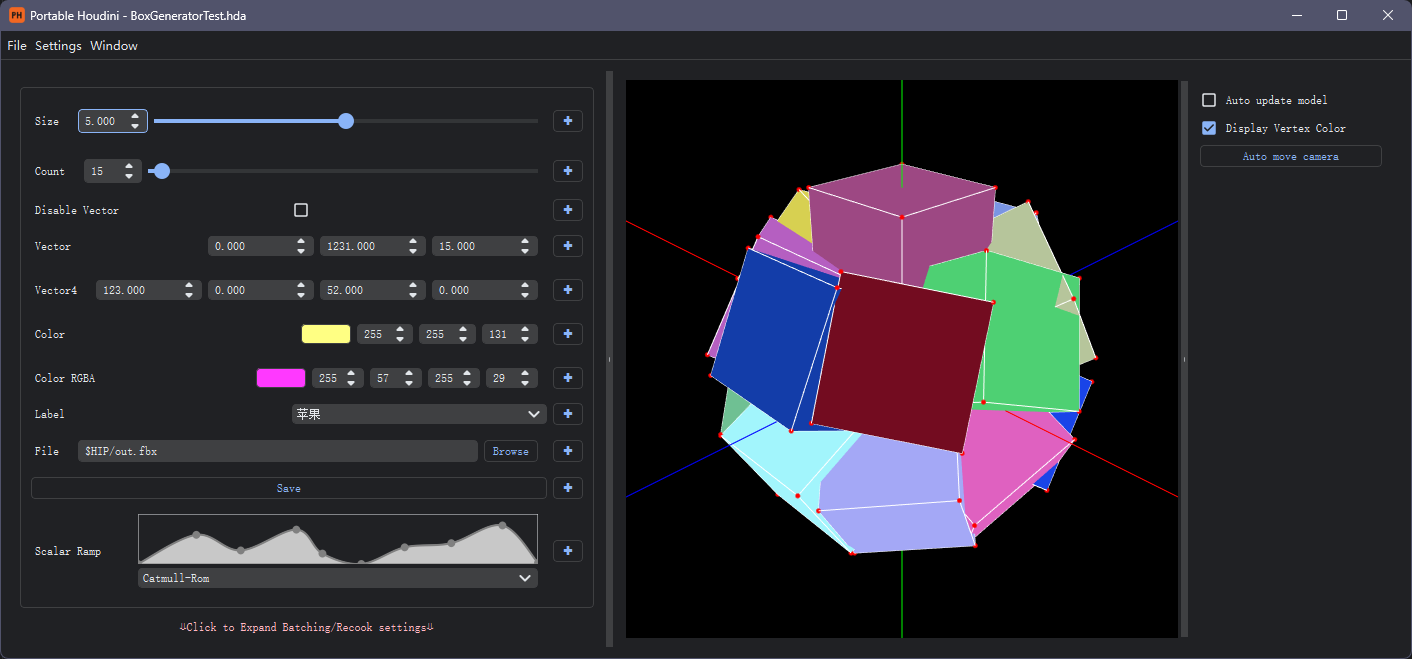
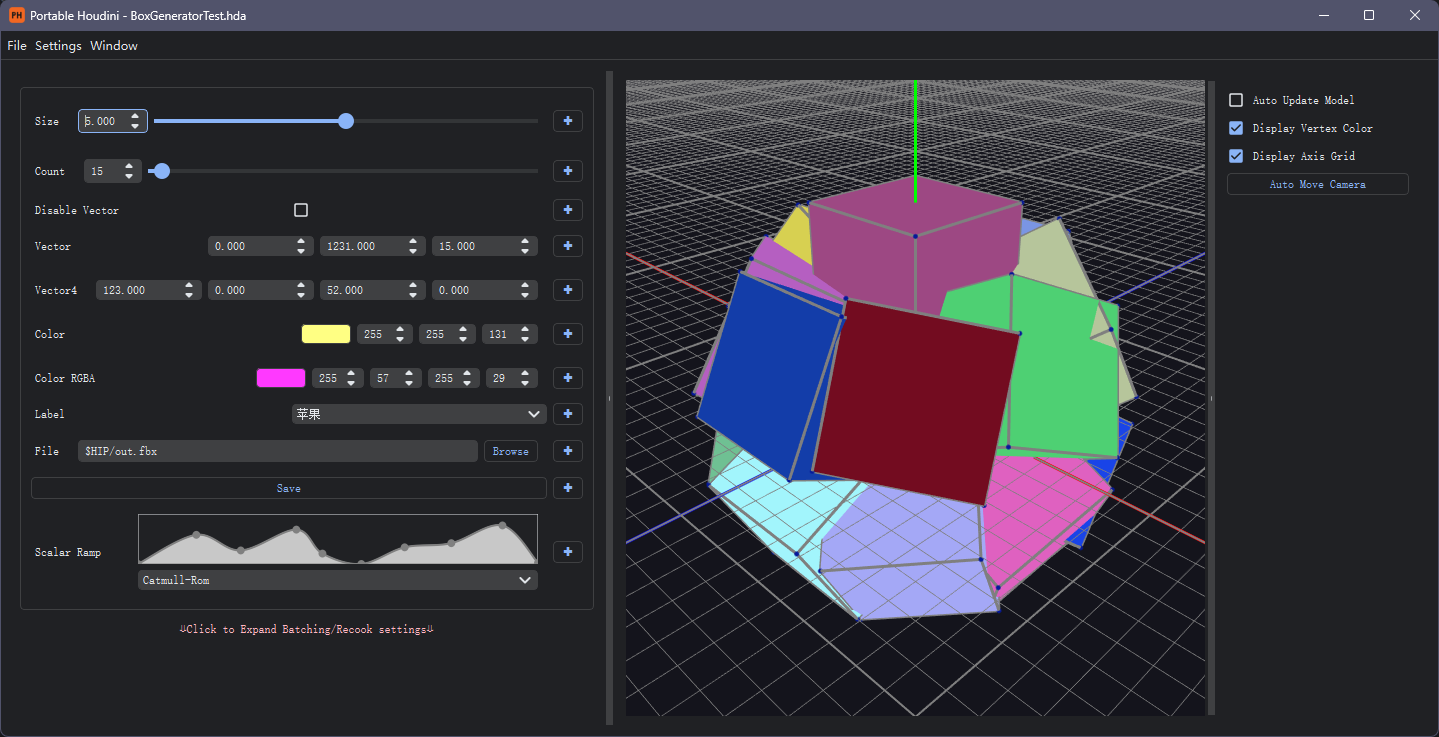
[Feat] Support displaying model coordinate grid

diff --git a/panel/qwidget/qt_mesh_viewer.py b/panel/qwidget/qt_mesh_viewer.py
@@ -31,6 +31,10 @@ class QMeshViewer(QOpenGLWidget):
         self.camera_distance = 10
         self.camera_x = 0
         self.camera_y = 0
+
+        self.show_grid = True
+        self.grid_spacing = 1
+
         self.last_mouse_position = None
         self.setMinimumWidth(300)
         self.setMinimumHeight(300)
@@ -87,21 +91,13 @@ class QMeshViewer(QOpenGLWidget):
             0, 1, 0
         )
 
+        glClearColor(0.08, 0.08, 0.11, 1.0)
+
         glRotatef(self.camera_angle_x, 1, 0, 0)
         glRotatef(self.camera_angle_y, 0, 1, 0)
 
-        # 绘制坐标平面
-        glBegin(GL_LINES)
-        glColor3f(1.0, 0.0, 0.0)  # X轴为红色
-        glVertex3f(-100.0, 0.0, 0.0)
-        glVertex3f(100.0, 0.0, 0.0)
-        glColor3f(0.0, 1.0, 0.0)  # Y轴为绿色
-        glVertex3f(0.0, -100.0, 0.0)
-        glVertex3f(0.0, 100.0, 0.0)
-        glColor3f(0.0, 0.0, 1.0)  # Z轴为蓝色
-        glVertex3f(0.0, 0.0, -100.0)
-        glVertex3f(0.0, 0.0, 100.0)
-        glEnd()
+        # Draw the grid and axes
+        self.drawGridAndAxes()
 
         # 绘制立方体面
         if self.show_vertex_colors:
@@ -120,7 +116,7 @@ class QMeshViewer(QOpenGLWidget):
             glEnd()
 
         # 绘制立方体边线
-        glColor3f(1.0, 1.0, 1.0)  # 白色
+        glColor3f(0.5, 0.5, 0.5)  # 白色
         glBegin(GL_LINES)
         for face in self.faces:
             for i in range(len(face)):
@@ -129,12 +125,61 @@ class QMeshViewer(QOpenGLWidget):
         glEnd()
 
         # 绘制顶点
-        glColor3f(1.0, 0.0, 0.0)  # 红色
+        glColor3f(0.02, 0.1, 0.6)  # 暗蓝色
         glPointSize(5.0)
         glBegin(GL_POINTS)
         for vertex in self.vertices:
             glVertex3f(vertex[0], vertex[1], vertex[2])
         glEnd()
+
+    def drawGridAndAxes(self):
+        if self.show_grid:
+            # Adjust grid spacing based on camera distance
+            grid_spacing = 1
+            while self.camera_distance > grid_spacing * 10:
+                grid_spacing *= 10
+            self.grid_spacing = grid_spacing
+
+            # Draw the main grid on the XZ plane with thick lines
+            glColor3f(0.5, 0.5, 0.5)
+            glLineWidth(2.0)  # Thick lines for the main grid
+            glBegin(GL_LINES)
+            for i in range(-100, 101, self.grid_spacing):
+                glVertex3f(i, 0, -100)
+                glVertex3f(i, 0, 100)
+                glVertex3f(-100, 0, i)
+                glVertex3f(100, 0, i)
+            glEnd()
+
+            # Draw the subdivided grid on the XZ plane with thin lines
+            fine_spacing = self.grid_spacing / 10.0
+            glLineWidth(0.75)  # Thin lines for the subdivided grid
+            glBegin(GL_LINES)
+            for i in range(int(-100 / fine_spacing), int(101 / fine_spacing)):
+                if i % 10 != 0:  # Skip main grid lines
+                    glVertex3f(i * fine_spacing, 0, -100)
+                    glVertex3f(i * fine_spacing, 0, 100)
+                    glVertex3f(-100, 0, i * fine_spacing)
+                    glVertex3f(100, 0, i * fine_spacing)
+            glEnd()
+
+        # Draw the axes
+        glLineWidth(3.0)  # Restore line width for the axes
+        glBegin(GL_LINES)
+        glColor3f(1.0, 0.0, 0.0)  # X axis red
+        glVertex3f(-100.0, 0.0, 0.0)
+        glVertex3f(100.0, 0.0, 0.0)
+        glColor3f(0.0, 1.0, 0.0)  # Y axis green
+        glVertex3f(0.0, 0, 0.0)
+        glVertex3f(0.0, 100.0, 0.0)
+        glColor3f(0.0, 0.0, 1.0)  # Z axis blue
+        glVertex3f(0.0, 0.0, -100.0)
+        glVertex3f(0.0, 0.0, 100.0)
+        glEnd()
+
+    def setDisplayAxisGrid(self, display_or_not):
+        self.show_grid = display_or_not
+        self.update()
 
     def loadHouNodeAsModel(self, hou_node):
         self.vertices = []
@@ -260,12 +305,16 @@ class QMeshViewerPanel(QWidget):
         self.checkbox_show_vertex_colors = QCheckBox(getLocalizationStr(LANG_STR_ENUM.UI_MESH_VIEWER_OPTIONS_PANEL_VERTEX_COLOR))
         self.checkbox_show_vertex_colors.setChecked(True)
         self.mesh_viewer.setDisplayPointColor(True)
+        self.checkbox_show_axis_grid = QCheckBox(getLocalizationStr(LANG_STR_ENUM.UI_MESH_VIEWER_OPTIONS_PANEL_DISPLAY_AXIS_GRID))
+        self.checkbox_show_axis_grid.setChecked(True)
+        self.mesh_viewer.setDisplayAxisGrid(True)
         self.button_auto_move_camera = QPushButton(getLocalizationStr(LANG_STR_ENUM.UI_MESH_VIEWER_OPTIONS_PANEL_ADJUST_CAMERA))
 
         # 布局
         parameter_panel = QVBoxLayout()
         parameter_panel.addWidget(self.checkbox_auto_update)
         parameter_panel.addWidget(self.checkbox_show_vertex_colors)
+        parameter_panel.addWidget(self.checkbox_show_axis_grid)
         parameter_panel.addWidget(self.button_auto_move_camera)
         parameter_panel.addStretch()
 
@@ -283,6 +332,7 @@ class QMeshViewerPanel(QWidget):
 
         # 连接信号
         self.checkbox_show_vertex_colors.toggled.connect(self.mesh_viewer.setDisplayPointColor)
+        self.checkbox_show_axis_grid.toggled.connect(self.mesh_viewer.setDisplayAxisGrid)
         self.button_auto_move_camera.clicked.connect(self.mesh_viewer.autoMoveCamera)
 
     def updateCounterLabels(self, counts):

diff --git a/panel/utils/localization.py b/panel/utils/localization.py
@@ -29,6 +29,7 @@ class LANG_STR_ENUM(SimpleEnum):
     UI_MESH_VIEWER_OPTIONS_PANEL_VERTEX_COLOR = None
     UI_MESH_VIEWER_OPTIONS_PANEL_ADJUST_CAMERA = None
     UI_MESH_VIEWER_OPTIONS_PANEL_AUTO_UPDATE_NODE = None
+    UI_MESH_VIEWER_OPTIONS_PANEL_DISPLAY_AXIS_GRID = None
     UI_MESH_VIEWER_INFO_VERTEX = None
     UI_MESH_VIEWER_INFO_POLYGON = None
     UI_TWIRL_EXPANSION_DESCRIPTION = None
@@ -73,9 +74,10 @@ LANG_MAP = {LANG_STR_ENUM.UI_APPLY: {LANG_ENUM.EN_US: "Apply", LANG_ENUM.ZH_CN: 
             LANG_STR_ENUM.UI_MENU_WINDOW: {LANG_ENUM.EN_US: "Window", LANG_ENUM.ZH_CN: "窗口"},
             LANG_STR_ENUM.UI_MENU_WINDOW_MESH_VIEWER: {LANG_ENUM.EN_US: "Mesh Viewer", LANG_ENUM.ZH_CN: "模型预览窗口"},
             LANG_STR_ENUM.UI_MESH_VIEWER_OPTIONS_PANEL: {LANG_ENUM.EN_US: "Options", LANG_ENUM.ZH_CN: "选项"},
-            LANG_STR_ENUM.UI_MESH_VIEWER_OPTIONS_PANEL_ADJUST_CAMERA: {LANG_ENUM.EN_US: "Auto move camera", LANG_ENUM.ZH_CN: "自动回正摄像机"},
+            LANG_STR_ENUM.UI_MESH_VIEWER_OPTIONS_PANEL_ADJUST_CAMERA: {LANG_ENUM.EN_US: "Auto Move Camera", LANG_ENUM.ZH_CN: "自动回正摄像机"},
             LANG_STR_ENUM.UI_MESH_VIEWER_OPTIONS_PANEL_VERTEX_COLOR: {LANG_ENUM.EN_US: "Display Vertex Color", LANG_ENUM.ZH_CN: "显示顶点色"},
-            LANG_STR_ENUM.UI_MESH_VIEWER_OPTIONS_PANEL_AUTO_UPDATE_NODE: {LANG_ENUM.EN_US: "Auto update model", LANG_ENUM.ZH_CN: "自动更新模型"},
+            LANG_STR_ENUM.UI_MESH_VIEWER_OPTIONS_PANEL_AUTO_UPDATE_NODE: {LANG_ENUM.EN_US: "Auto Update Model", LANG_ENUM.ZH_CN: "自动更新模型"},
+            LANG_STR_ENUM.UI_MESH_VIEWER_OPTIONS_PANEL_DISPLAY_AXIS_GRID: {LANG_ENUM.EN_US: "Display Axis Grid", LANG_ENUM.ZH_CN: "显示坐标平面"},
             LANG_STR_ENUM.UI_MESH_VIEWER_INFO_VERTEX: {LANG_ENUM.EN_US: "Vertices", LANG_ENUM.ZH_CN: "顶点数"},
             LANG_STR_ENUM.UI_MESH_VIEWER_INFO_POLYGON: {LANG_ENUM.EN_US: "Triangles", LANG_ENUM.ZH_CN: "三角面数"},
             LANG_STR_ENUM.UI_HDAPANEL_EMPTY_HDA: {LANG_ENUM.EN_US: "Select a HDA", LANG_ENUM.ZH_CN: "打开一个HDA"},
